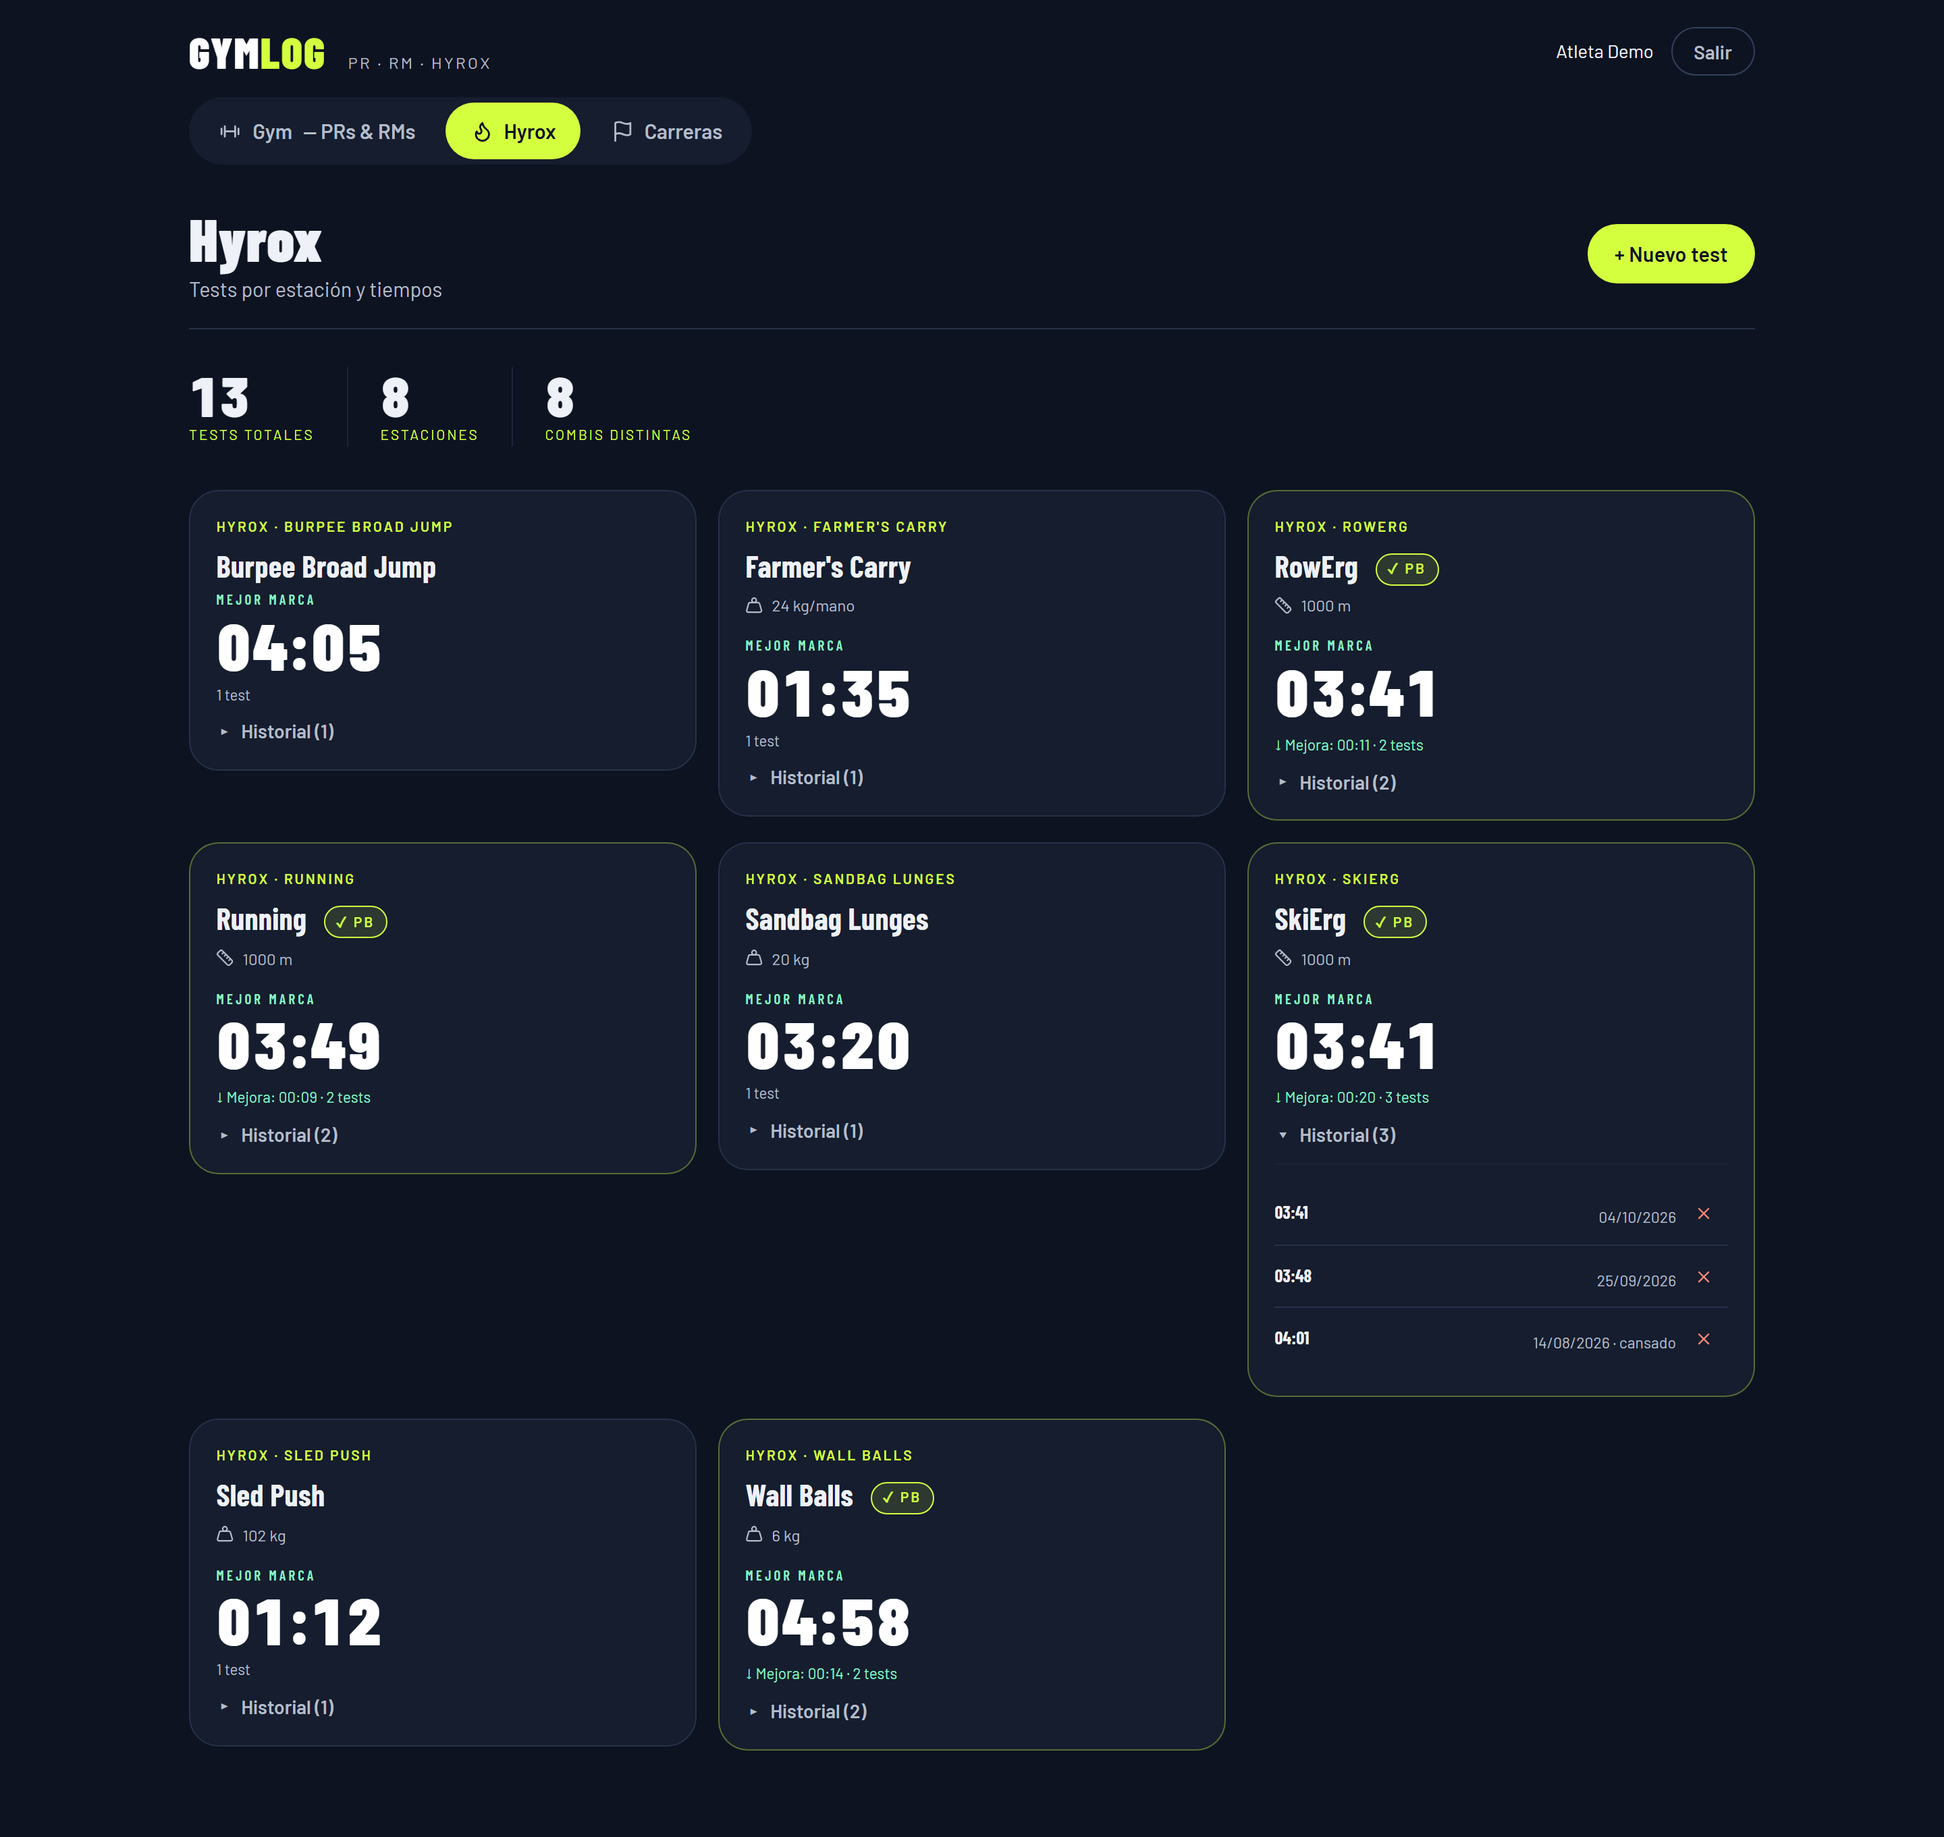
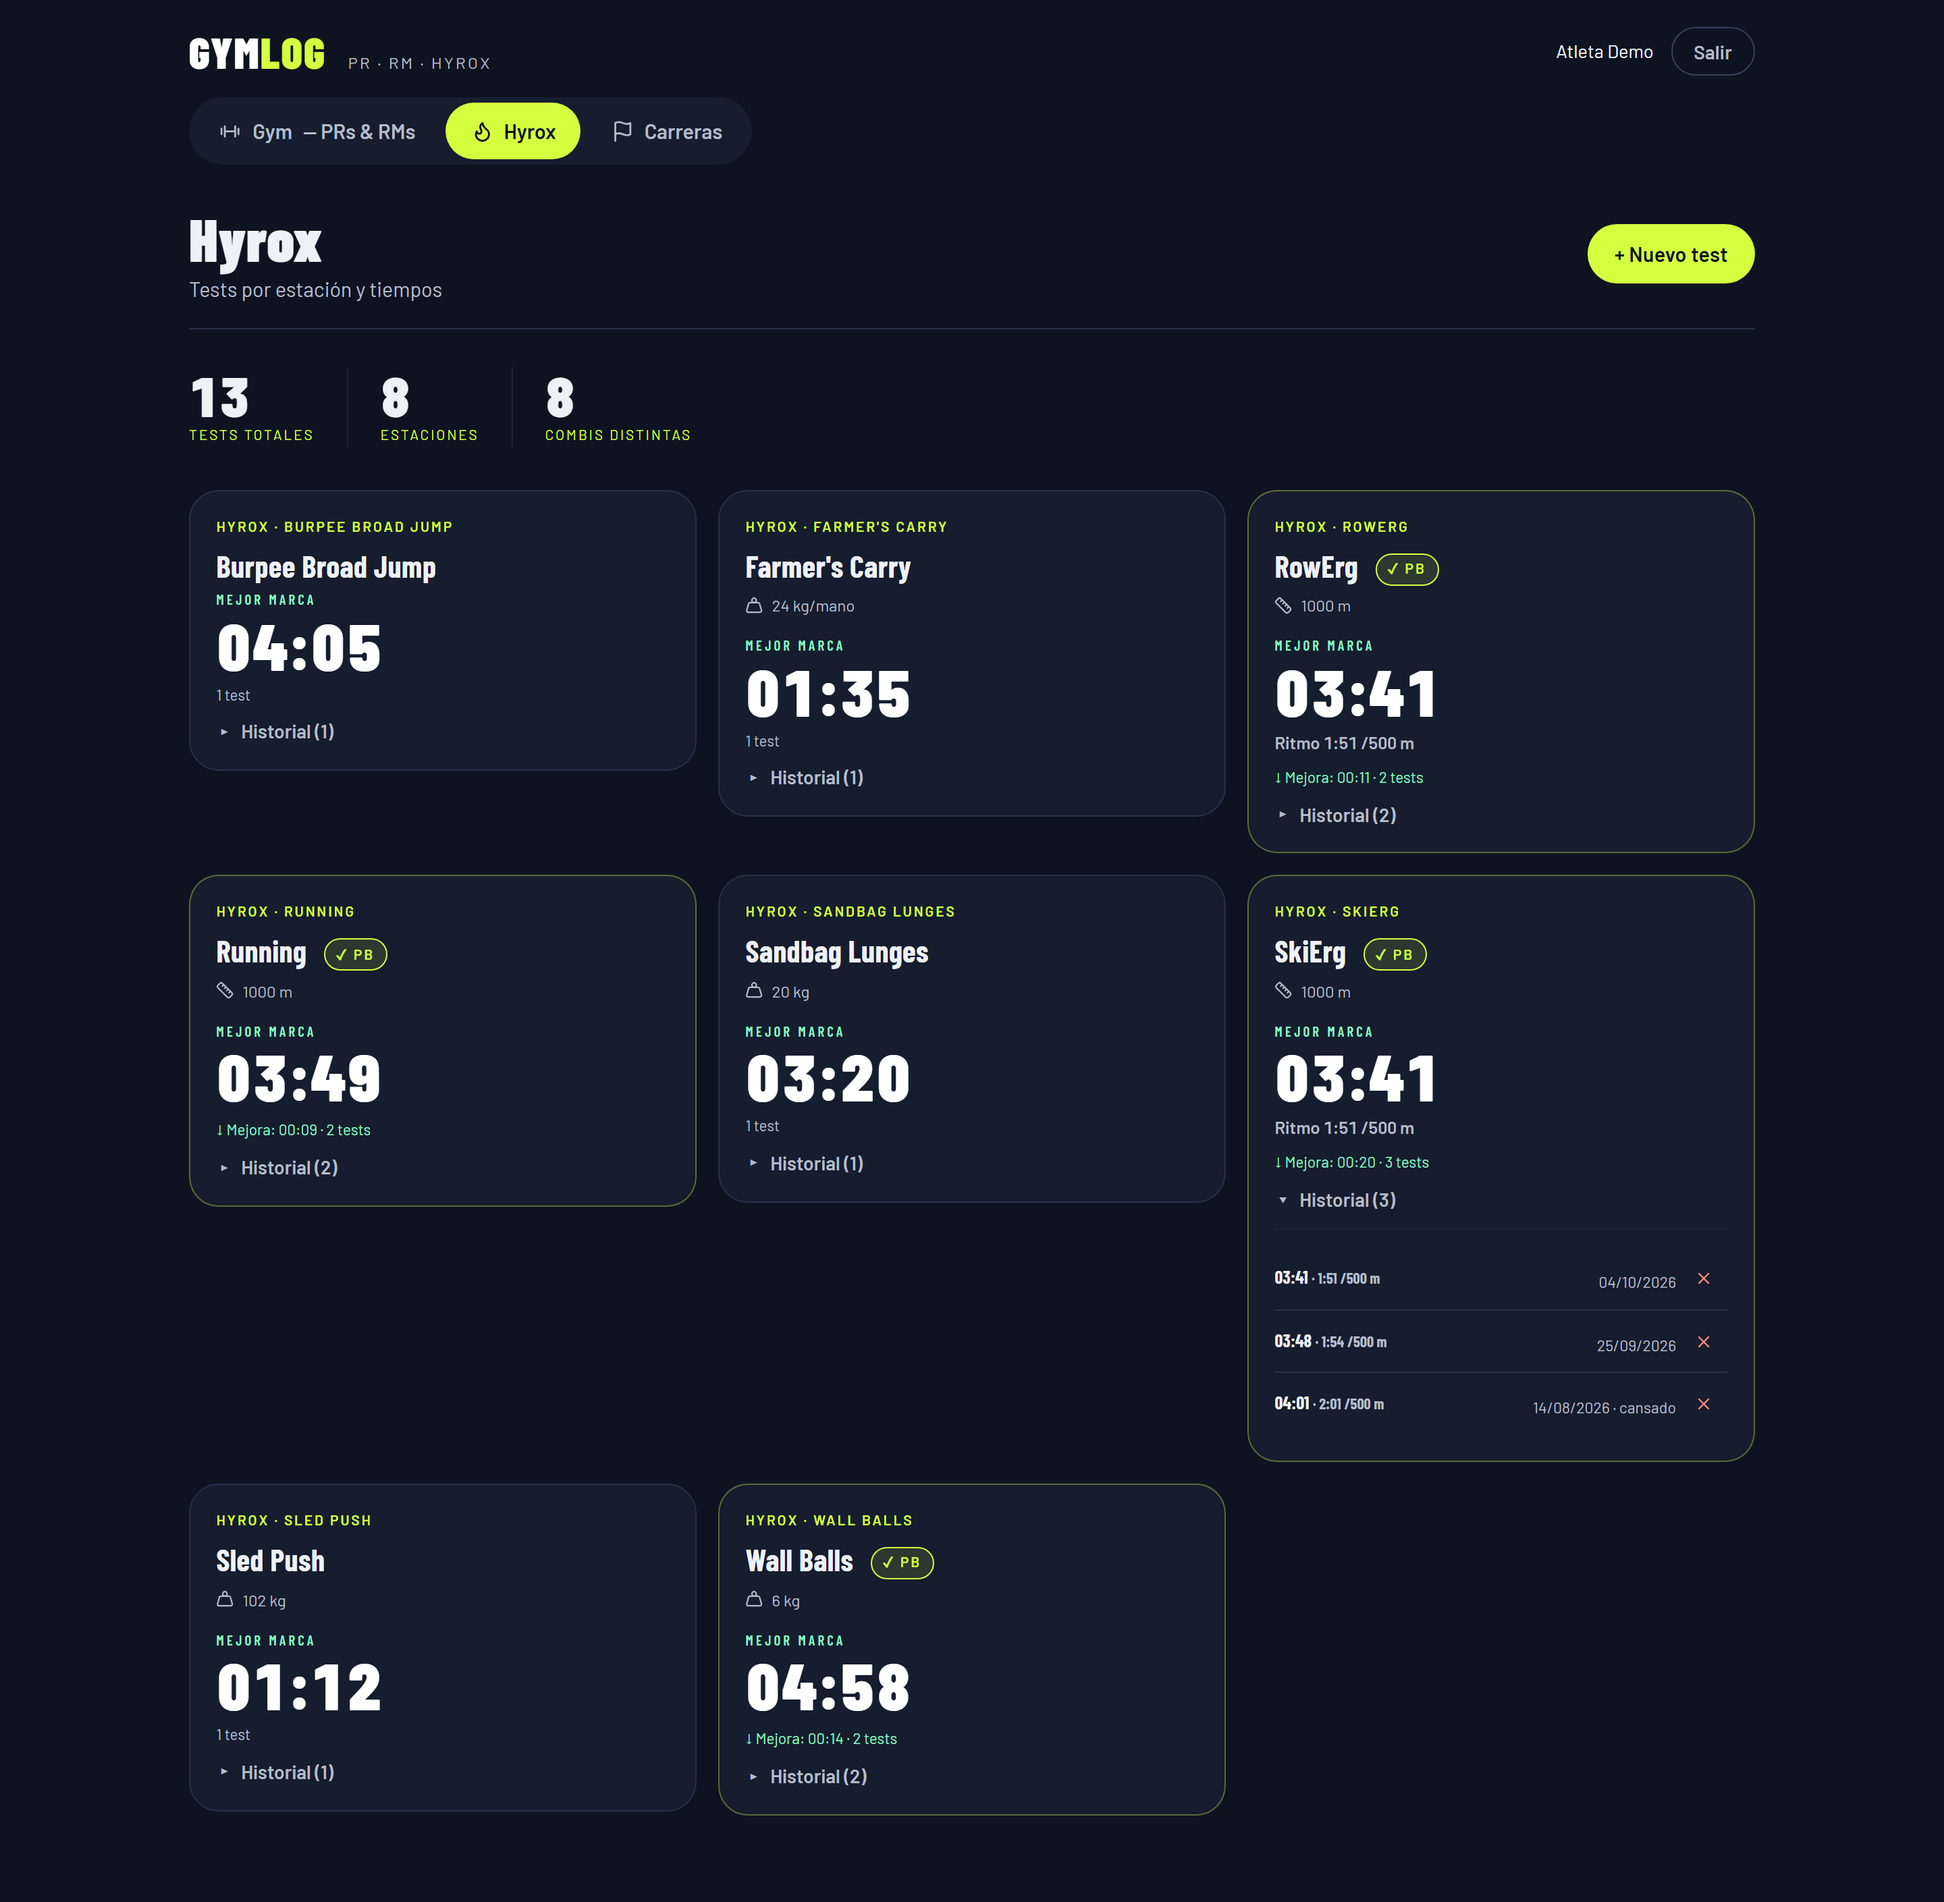
Hyrox: ritmo por 500 m en los tests de SkiErg y RowErg, en la mejor marca y en el historial

diff --git a/src/app/domain/hyrox.spec.ts b/src/app/domain/hyrox.spec.ts
@@ -1,5 +1,5 @@
 import { HyroxTest } from '../core/models';
-import { groupKey, hyroxGroups, hyroxSummary, paramLabel, stationConfig } from './hyrox';
+import { groupKey, hyroxGroups, hyroxSummary, paramLabel, split500, stationConfig } from './hyrox';
 
 const t = (
   id: string,
@@ -28,6 +28,16 @@ describe('hyrox', () => {
     expect(paramLabel({ station: 'Sled Push', param: 0 })).toBe('0 kg');
   });
 
+  it('split500: pace per 500 m only for SkiErg and RowErg', () => {
+    expect(split500({ station: 'SkiErg', param: 1000, totalSec: 228 })).toBe(114);
+    expect(split500({ station: 'RowErg', param: 2000, totalSec: 480 })).toBe(120);
+    expect(split500({ station: 'RowErg', param: 500, totalSec: 95 })).toBe(95);
+    expect(split500({ station: 'Running', param: 1000, totalSec: 240 })).toBeNull();
+    expect(split500({ station: 'Wall Balls', param: 6, totalSec: 300 })).toBeNull();
+    expect(split500({ station: 'SkiErg', param: null, totalSec: 228 })).toBeNull();
+    expect(split500({ station: 'SkiErg', param: 0, totalSec: 228 })).toBeNull();
+  });
+
   describe('hyroxGroups', () => {
     const list = [
       t('h1', 'SkiErg', 1000, 240, '2026-09-01'),
@@ -40,6 +50,12 @@ describe('hyrox', () => {
 
     it('groups by station + parameter, sorted by station then parameter', () => {
       expect(groups.map((g) => g.key)).toEqual(['RowErg|2000 m', 'SkiErg|500 m', 'SkiErg|1000 m']);
+    });
+
+    it('the pace per 500 m comes from the best test', () => {
+      expect(groups.map((g) => g.bestSplit500)).toEqual([120, 110, 112.5]);
+      const [wb] = hyroxGroups([t('w', 'Wall Balls', 6, 300, '2026-09-01')]);
+      expect(wb.bestSplit500).toBeNull();
     });
 
     it('entries go from best to worst time', () => {

diff --git a/src/app/domain/hyrox.ts b/src/app/domain/hyrox.ts
@@ -40,6 +40,15 @@ export const STATION_CONFIG: Record<HyroxStation, StationConfig> = {
 export const stationConfig = (station: string): StationConfig =>
   STATION_CONFIG[station as HyroxStation] ?? { kind: 'none' };
 
+/** Ergómetros cuyo ritmo se mide por 500 m */
+const ERG_STATIONS = ['SkiErg', 'RowErg'];
+
+/** Ritmo por 500 m de un test de SkiErg o RowErg (segundos); null en el resto */
+export function split500(t: Pick<HyroxTest, 'station' | 'param' | 'totalSec'>): number | null {
+  if (!ERG_STATIONS.includes(t.station) || !t.param || t.param <= 0) return null;
+  return (t.totalSec * 500) / t.param;
+}
+
 /** Texto del parámetro de un test: «1000 m», «24 kg/mano» o vacío */
 export function paramLabel(t: Pick<HyroxTest, 'station' | 'param'>): string {
   const cfg = stationConfig(t.station);
@@ -64,6 +73,8 @@ export interface HyroxGroup {
   improvement: number;
   /** Hay más de un test con el que compararse */
   hasPB: boolean;
+  /** Ritmo por 500 m de la mejor marca (SkiErg y RowErg); null en el resto */
+  bestSplit500: number | null;
 }
 
 /** Tests agrupados por estación y parámetro, ordenados por estación y luego por parámetro */
@@ -87,6 +98,7 @@ export function hyroxGroups(list: readonly HyroxTest[]): HyroxGroup[] {
         best,
         improvement: Math.max(0, first.totalSec - best.totalSec),
         hasPB: tests.length > 1,
+        bestSplit500: split500(best),
       };
     })
     .sort((a, b) =>

diff --git a/src/app/shared/format.pipes.ts b/src/app/shared/format.pipes.ts
@@ -1,5 +1,13 @@
 import { Pipe, PipeTransform } from '@angular/core';
-import { fmtDelta, fmtDmy, fmtDuration, fmtGap, fmtPace, fmtTime } from '../domain/format';
+import {
+  fmtDelta,
+  fmtDmy,
+  fmtDuration,
+  fmtGap,
+  fmtPace,
+  fmtSplit500,
+  fmtTime,
+} from '../domain/format';
 
 /** 2026-10-07 → 07/10/2026 */
 @Pipe({ name: 'fdmy' })
@@ -41,6 +49,14 @@ export class FmtGapPipe implements PipeTransform {
   }
 }
 
+/** Segundos por 500 m → 1:54 /500 m */
+@Pipe({ name: 'split500' })
+export class FmtSplit500Pipe implements PipeTransform {
+  transform(sec: number | null | undefined): string {
+    return sec == null ? '' : fmtSplit500(sec);
+  }
+}
+
 /** Segundos por km → 4:31 /km */
 @Pipe({ name: 'pace' })
 export class FmtPacePipe implements PipeTransform {
@@ -56,4 +72,5 @@ export const FORMAT_PIPES = [
   FmtDeltaPipe,
   FmtGapPipe,
   FmtPacePipe,
+  FmtSplit500Pipe,
 ] as const;

diff --git a/src/app/features/hyrox/hyrox-card.component.html b/src/app/features/hyrox/hyrox-card.component.html
@@ -15,6 +15,9 @@
   <div class="time-display">
     <span class="best-label">Mejor marca</span>{{ g.best.totalSec | mmss }}
   </div>
+  @if (g.bestSplit500 !== null) {
+    <div class="hx-split">Ritmo {{ g.bestSplit500 | split500 }}</div>
+  }
   @if (g.hasPB && g.improvement > 0) {
     <div class="card-date card-date--good">
       ↓ Mejora: {{ g.improvement | mmss }} · {{ g.entries.length }} tests
@@ -37,7 +40,12 @@
     <ul class="history-list">
       @for (t of g.entries; track t.id) {
         <li class="history-entry">
-          <span class="history-val">{{ t.totalSec | mmss }}</span>
+          <span class="history-val"
+            >{{ t.totalSec | mmss }}
+            @if (split(t); as s) {
+              <span class="history-note"> · {{ s | split500 }}</span>
+            }
+          </span>
           <span>
             <span class="history-date"
               >{{ t.date | fdmy }}

diff --git a/src/app/features/hyrox/hyrox.component.spec.ts b/src/app/features/hyrox/hyrox.component.spec.ts
@@ -43,6 +43,17 @@ describe('HyroxComponent', () => {
     expect(textOf(ski.querySelector('.card-date'))).toBe('↓ Mejora: 00:13 · 2 tests');
   });
 
+  it('SkiErg and RowErg show the pace per 500 m; the other stations do not', () => {
+    const ski = card('SkiErg');
+    // 1000 m en 03:48 → 1:54 cada 500 m
+    expect(textOf(ski.querySelector('.hx-split'))).toBe('Ritmo 1:54 /500 m');
+    clickButton(ski, 'Historial');
+    const history = [...ski.querySelectorAll('.history-entry')].map((h) => textOf(h));
+    expect(history[0]).toContain('03:48 · 1:54 /500 m');
+    expect(history[1]).toContain('04:01 · 2:01 /500 m');
+    expect(card('Wall Balls').querySelector('.hx-split')).toBeNull();
+  });
+
   it("the history of «Farmer's Carry» opens (the apostrophe used to break it)", () => {
     const farmer = card("Farmer's Carry");
     clickButton(farmer, 'Historial');

diff --git a/src/app/features/hyrox/hyrox-card.component.ts b/src/app/features/hyrox/hyrox-card.component.ts
@@ -1,6 +1,6 @@
 import { ChangeDetectionStrategy, Component, inject, input, signal } from '@angular/core';
 import { IconComponent } from '../../shared/icon.component';
-import { HyroxGroup } from '../../domain/hyrox';
+import { HyroxGroup, split500 } from '../../domain/hyrox';
 import { FORMAT_PIPES } from '../../shared/format.pipes';
 import { HyroxActions } from './hyrox-actions.service';
 
@@ -15,6 +15,7 @@ export class HyroxCardComponent {
   private readonly actions = inject(HyroxActions);
   readonly group = input.required<HyroxGroup>();
   protected readonly historyOpen = signal(false);
+  protected readonly split = split500;
 
   protected remove(id: string): void {
     void this.actions.deleteTest(id);

diff --git a/src/app/domain/format.spec.ts b/src/app/domain/format.spec.ts
@@ -4,6 +4,7 @@ import {
   fmtDuration,
   fmtGap,
   fmtPace,
+  fmtSplit500,
   fmtTime,
   num,
   parseDuration,
@@ -30,6 +31,12 @@ describe('format', () => {
     expect(fmtTime(65)).toBe('01:05');
     expect(fmtTime(3725)).toBe('62:05');
     expect(fmtTime(-3)).toBe('00:00');
+  });
+
+  it('fmtSplit500 formats the pace per 500 m', () => {
+    expect(fmtSplit500(114)).toBe('1:54 /500 m');
+    expect(fmtSplit500(112.5)).toBe('1:53 /500 m');
+    expect(fmtSplit500(95)).toBe('1:35 /500 m');
   });
 
   it('fmtDuration switches to h:mm:ss from one hour', () => {

diff --git a/src/app/domain/format.ts b/src/app/domain/format.ts
@@ -46,6 +46,12 @@ export const fmtGap = (deltaSec: number): string => {
   return `${fmtDelta(Math.abs(d)).slice(1)} más ${d < 0 ? 'rápido' : 'lento'}`;
 };
 
+/** Ritmo por 500 m (ergómetros): 114 s → 1:54 /500 m */
+export const fmtSplit500 = (sec: number): string => {
+  const s = Math.max(0, Math.round(sec));
+  return `${Math.floor(s / 60)}:${pad(s % 60)} /500 m`;
+};
+
 /** Ritmo por kilómetro: 271 s → 4:31 /km */
 export const fmtPace = (secPerKm: number): string => {
   const s = Math.max(0, Math.round(secPerKm));

diff --git a/src/styles.css b/src/styles.css
@@ -644,6 +644,13 @@ main {
   letter-spacing: 0.02em;
   margin-bottom: 0.3rem;
 }
+.hx-split {
+  font-size: 0.8rem;
+  font-weight: 600;
+  color: var(--text-2);
+  font-variant-numeric: tabular-nums;
+  margin-bottom: 0.3rem;
+}
 .best-label {
   font-size: 0.65rem;
   letter-spacing: 0.2em;
